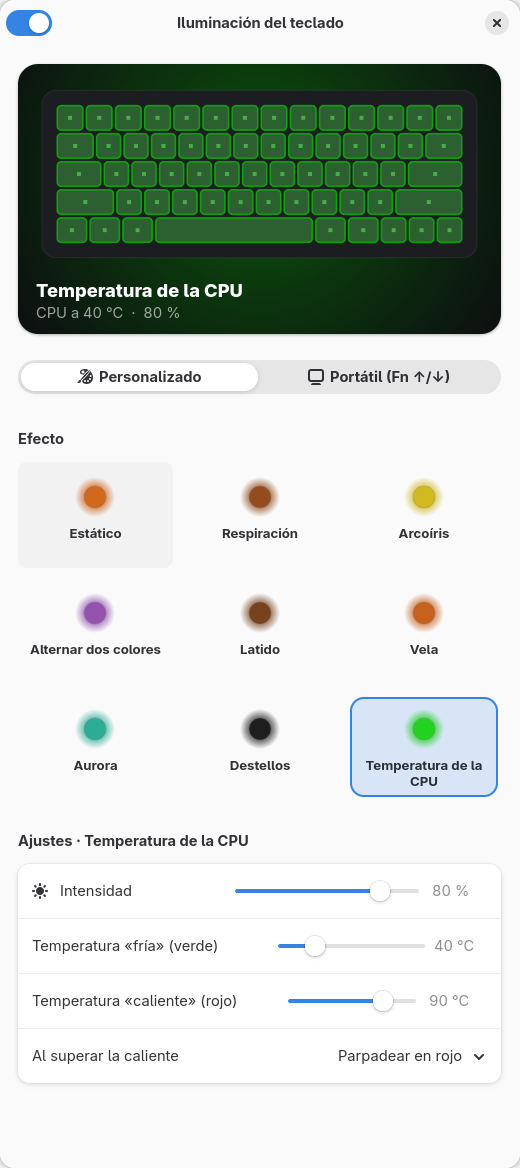
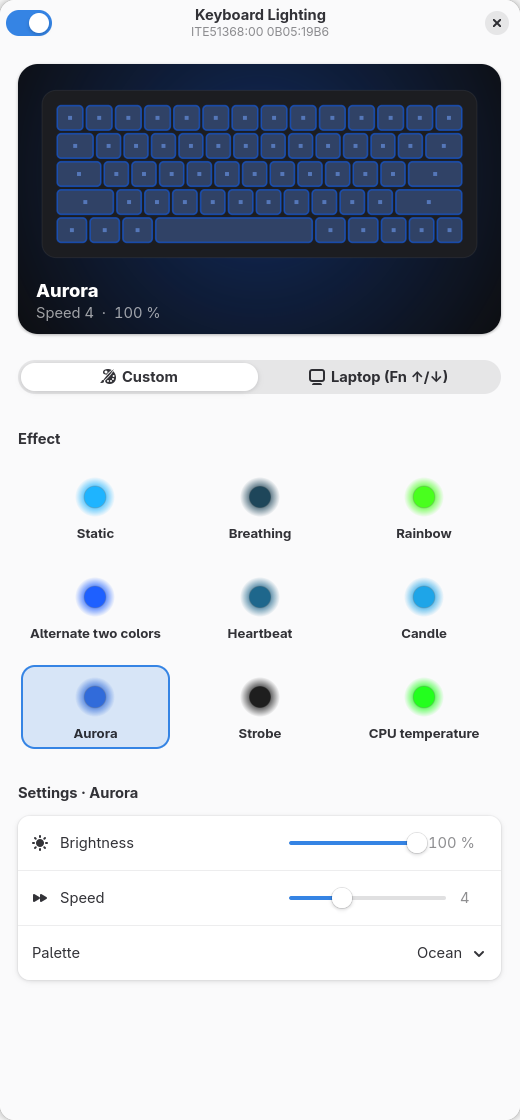
Rename the project to lamparray-light and update the docs
The tool is no longer ASUS-specific: describe LampArray support for any
vendor, how devices are detected, how to check compatibility, the
available languages and how to add a translation. Use an English
screenshot.

diff --git a/README.es.md b/README.es.md
@@ -1,30 +1,42 @@
-# asus-kbd-light
+# lamparray-light
 
 [English](README.md) · **Español**
 
-Control de la retroiluminación RGB del teclado para portátiles **ASUS** cuyo teclado
-interno es un dispositivo **I2C HID LampArray** (el estándar de *Iluminación dinámica*
-de Windows 11), que en Linux no gestionan ni `asusctl` ni OpenRGB.
+Control de la iluminación RGB de dispositivos **HID LampArray** en Linux: el estándar
+abierto detrás de la *Iluminación dinámica* de Windows 11, que usan teclados de
+portátiles y periféricos de muchos fabricantes. Habla directamente con el dispositivo,
+así que funciona donde `asusctl`, OpenRGB o las herramientas del fabricante no dan
+soporte al hardware.
 
-Probado en un **ASUS TUF Gaming A16 (FA608UM)** con Fedora 45 / GNOME.
+![Aplicación Iluminación del teclado](docs/screenshot.png)
 
-![Iluminación del teclado](docs/screenshot.png)
+## Dispositivos compatibles
 
-## ¿Me sirve?
+Cualquier dispositivo cuyo descriptor de informes HID exponga una colección LampArray,
+por I2C, USB o Bluetooth. Los números y tamaños de los informes se leen del descriptor,
+así que no hace falta configuración por modelo.
 
-Comprueba si tu portátil tiene este teclado:
+| Dispositivo | Estado |
+|---|---|
+| ASUS TUF Gaming A16 (FA608UM), teclado interno `ITE51368` `0B05:19B6` | ✅ probado |
+| Otros teclados / dispositivos LampArray | deberían funcionar, se agradecen informes |
+
+Comprueba si tu equipo tiene un dispositivo LampArray:
 
 ```sh
-grep -l "HID_ID=0018:00000B05:000019B6" /sys/class/hidraw/*/device/uevent
+for d in /sys/class/hidraw/*; do
+  od -An -v -tx1 "$d/device/report_descriptor" | tr -dc 0-9a-f |
+    grep -q -e 05590901a101 -e 0659000901a101 && grep HID_NAME "$d/device/uevent"
+done
 ```
 
-Si devuelve una ruta, sí. Otros modelos con teclado LampArray por I2C pueden funcionar
-cambiando `TARGET_ID` en `src/kbd_light.py` y la regla de `data/70-kbd-light.rules`.
+Tras instalar, `kbd-light info` lista los dispositivos detectados con sus números de
+informe y su número de LEDs.
 
 ## Funcionalidades
 
-- **Aplicación GTK4 / libadwaita** con vista previa en directo del teclado.
-- **Color e intensidad** con selector de color y colores rápidos.
+- **Aplicación GTK4 / libadwaita** con vista previa en directo de la iluminación.
+- **Color e intensidad**, con selector de color y colores rápidos.
 - **9 efectos**, cada uno con sus opciones:
 
   | Efecto | Opciones |
@@ -39,27 +51,32 @@ cambiando `TARGET_ID` en `src/kbd_light.py` y la regla de `data/70-kbd-light.rul
   | Destellos | duración, destellos por ráfaga |
   | Temperatura de la CPU | umbrales frío / caliente, alarma |
 
-- **Modo portátil**: devuelve el control al firmware (Fn + ↑/↓).
+- **Modo portátil**: devuelve el control al firmware (p. ej. Fn + ↑/↓).
+- **Varios dispositivos a la vez**: controla juntos todos los LampArray que encuentre.
 - **Servicio de usuario** que anima los efectos y restaura la configuración al iniciar
   sesión y al volver de suspensión.
 - **Línea de comandos** `kbd-light`.
+- **9 idiomas**: inglés, español, alemán, francés, portugués, italiano, ruso, japonés y
+  chino simplificado (sigue el idioma del sistema).
 
 ## Requisitos
 
 - Python 3, PyGObject con GTK 4 y libadwaita ≥ 1.7, pycairo
   (en Fedora con GNOME ya vienen instalados).
 - systemd (servicio de usuario) y udev.
+- `gettext` (`msgfmt`) para instalar las traducciones; sin él la interfaz sale en inglés.
 
 ## Instalación
 
 ```sh
-git clone https://github.com/<usuario>/asus-kbd-light.git
-cd asus-kbd-light
+git clone https://github.com/<usuario>/lamparray-light.git
+cd lamparray-light
 ./install.sh
 ```
 
 El script instala la app para tu usuario en `~/.local` y pide `sudo` solo para la regla
-udev que da acceso al teclado a la sesión activa (sin necesidad de root después).
+udev que da acceso a los dispositivos LampArray a la sesión activa (sin necesidad de
+root después).
 
 Para desinstalar: `./uninstall.sh` (añade `--purge` para borrar también la configuración).
 
@@ -67,11 +84,11 @@ Para desinstalar: `./uninstall.sh` (añade `--purge` para borrar también la con
 
 ```sh
 kbd-light                      # abre la aplicación
-kbd-light info                 # dispositivo y nº de LEDs
+kbd-light info                 # dispositivos detectados, informes y LEDs
 kbd-light color ff6600 80      # color fijo al 80 %
 kbd-light effect rainbow 7     # efecto y velocidad (1-10)
 kbd-light color2 00aaff        # segundo color (alternate)
-kbd-light auto                 # control del firmware (Fn + ↑/↓)
+kbd-light auto                 # control del firmware
 kbd-light off                  # apagar
 ```
 
@@ -82,29 +99,56 @@ La configuración se guarda en `~/.config/kbd-light/config.json`.
 
 ## Cómo funciona
 
-El teclado (`ITE51368`, `0B05:19B6`) se conecta por I2C y Linux lo enlaza a
-`hid-generic`; el driver `hid-asus` solo lo reconoce por USB. El control de la luz
-vía WMI (`asus::kbd_backlight`, que usa `asusctl`) acepta órdenes pero no tiene efecto.
+Un LampArray es una colección de aplicación en la página de uso HID *Lighting and
+Illumination* (`0x59`). `kbd-light` recorre `/sys/class/hidraw/*/device/report_descriptor`,
+analiza cada descriptor y se queda con los dispositivos que implementan los informes
+necesarios. Después envía *feature reports* por `/dev/hidrawN`:
 
-El dispositivo implementa la página HID *Lighting and Illumination* (`0x59`), es decir,
-un **LampArray**. `kbd-light` habla con él directamente por `/dev/hidrawN` con *feature
-reports*:
-
-| Report | Uso |
+| Informe (por uso) | Para qué sirve |
 |---|---|
-| `0x41` LampArrayAttributes | nº de LEDs, tamaño, intervalo mínimo |
-| `0x42` / `0x43` LampAttributes | posición y capacidades de cada LED |
-| `0x45` LampRangeUpdate | color RGBI para un rango de LEDs |
-| `0x46` LampArrayControl | modo autónomo (firmware) on/off |
+| LampArrayAttributes (`0x02`) | nº de LEDs, tamaño, intervalo mínimo de actualización |
+| LampAttributesRequest / Response (`0x20` / `0x22`) | posición y capacidades de cada LED |
+| LampRangeUpdate (`0x60`) | color RGBI para un rango de LEDs |
+| LampArrayControl (`0x70`) | modo autónomo (firmware) on/off |
 
-Este modelo expone **una sola zona** de luz, así que los efectos son de color global; el
-servicio los genera a ~30 fps (~2-3 % de CPU).
+Los números de informe cambian entre fabricantes (el teclado ASUS usa `0x41`–`0x46`), por
+eso se leen del descriptor.
+
+La regla udev da acceso con la etiqueta `uaccess` a los nodos hidraw cuyo descriptor
+contiene la colección LampArray, así que solo afecta a dispositivos de iluminación.
+
+El servicio de usuario genera los efectos a ~30 fps (o más despacio si el dispositivo lo
+pide) y pone todos los LEDs del mismo color; los efectos por LED aún no están
+implementados.
+
+### Por qué hace falta en portátiles ASUS
+
+En el modelo ASUS probado, el teclado va por I2C y Linux lo enlaza a `hid-generic` (el
+driver `hid-asus` solo lo reconoce por USB), y la interfaz WMI de retroiluminación
+(`asus::kbd_backlight`, la que usa `asusctl`) acepta órdenes sin ningún efecto.
+
+## Traducciones
+
+Las traducciones están en `po/`. Para añadir un idioma:
+
+```sh
+cd po
+msginit -l <idioma> -i kbd-light.pot -o <idioma>.po   # y traduce <idioma>.po
+echo <idioma> >> LINGUAS
+./update.sh                                             # comprueba todos los catálogos
+```
+
+Si cambias textos en `src/`, ejecuta `po/update.sh` para actualizar la plantilla y los
+catálogos. Las traducciones actuales están hechas con ayuda de IA: se agradecen
+correcciones de hablantes nativos.
 
 ## Estructura
 
 ```
 src/kbd_light.py        núcleo: protocolo LampArray, efectos, CLI y servicio
 src/kbd_light_gui.py    interfaz GTK4 / libadwaita
+src/i18n.py             configuración de gettext
+po/                     plantilla y catálogos de traducción
 data/                   regla udev, servicio systemd de usuario y lanzador .desktop
 install.sh              instalación para el usuario actual
 uninstall.sh            desinstalación

diff --git a/README.md b/README.md
@@ -1,31 +1,40 @@
-# asus-kbd-light
+# lamparray-light
 
 **English** · [Español](README.es.md)
 
-RGB keyboard backlight control for **ASUS** laptops whose internal keyboard is an
-**I2C HID LampArray** device (the Windows 11 *Dynamic Lighting* standard), which on
-Linux is handled by neither `asusctl` nor OpenRGB.
+RGB lighting control for **HID LampArray** devices on Linux: the open standard behind
+Windows 11 *Dynamic Lighting*, used by laptop keyboards and peripherals from many
+vendors. It talks to the device directly, so it works where `asusctl`, OpenRGB or vendor
+tools don't support the hardware.
 
-Tested on an **ASUS TUF Gaming A16 (FA608UM)** running Fedora 45 / GNOME.
+![Keyboard Lighting app](docs/screenshot.png)
 
-![Keyboard lighting app](docs/screenshot.png)
+## Supported devices
 
-> The user interface is currently in Spanish.
+Any device whose HID report descriptor exposes a LampArray collection, over I2C, USB or
+Bluetooth. Report IDs and sizes are read from the descriptor, so no per-model
+configuration is needed.
 
-## Does it work on my laptop?
+| Device | Status |
+|---|---|
+| ASUS TUF Gaming A16 (FA608UM), internal keyboard `ITE51368` `0B05:19B6` | ✅ tested |
+| Other LampArray keyboards / devices | should work, reports welcome |
 
-Check whether your laptop has this keyboard:
+Check whether your machine has a LampArray device:
 
 ```sh
-grep -l "HID_ID=0018:00000B05:000019B6" /sys/class/hidraw/*/device/uevent
+for d in /sys/class/hidraw/*; do
+  od -An -v -tx1 "$d/device/report_descriptor" | tr -dc 0-9a-f |
+    grep -q -e 05590901a101 -e 0659000901a101 && grep HID_NAME "$d/device/uevent"
+done
 ```
 
-If it prints a path, yes. Other models with an I2C LampArray keyboard may work by
-changing `TARGET_ID` in `src/kbd_light.py` and the rule in `data/70-kbd-light.rules`.
+After installing, `kbd-light info` lists the detected devices with their report IDs and
+lamp count.
 
 ## Features
 
-- **GTK4 / libadwaita app** with a live preview of the keyboard.
+- **GTK4 / libadwaita app** with a live preview of the lighting.
 - **Color and brightness**, with a color picker and quick presets.
 - **9 effects**, each with its own options:
 
@@ -41,27 +50,31 @@ changing `TARGET_ID` in `src/kbd_light.py` and the rule in `data/70-kbd-light.ru
   | Strobe | flash duration, flashes per burst |
   | CPU temperature | cold / hot thresholds, alarm |
 
-- **Laptop mode**: hands control back to the firmware (Fn + ↑/↓).
+- **Laptop mode**: hands control back to the firmware (e.g. Fn + ↑/↓).
+- **Several devices at once**: every LampArray found is driven together.
 - **User service** that animates the effects and restores your settings on login
   and after resuming from suspend.
 - **Command line** tool `kbd-light`.
+- **9 languages**: English, Spanish, German, French, Portuguese, Italian, Russian,
+  Japanese and Simplified Chinese (follows the system language).
 
 ## Requirements
 
 - Python 3, PyGObject with GTK 4 and libadwaita ≥ 1.7, pycairo
   (preinstalled on Fedora with GNOME).
 - systemd (user service) and udev.
+- `gettext` (`msgfmt`) to install the translations; without it the UI is in English.
 
 ## Installation
 
 ```sh
-git clone https://github.com/<user>/asus-kbd-light.git
-cd asus-kbd-light
+git clone https://github.com/<user>/lamparray-light.git
+cd lamparray-light
 ./install.sh
 ```
 
 The script installs the app for your user under `~/.local` and only asks for `sudo` to
-install a udev rule that gives the active session access to the keyboard (no root
+install a udev rule that gives the active session access to LampArray devices (no root
 needed afterwards).
 
 To uninstall: `./uninstall.sh` (add `--purge` to also remove your settings).
@@ -70,11 +83,11 @@ To uninstall: `./uninstall.sh` (add `--purge` to also remove your settings).
 
 ```sh
 kbd-light                      # open the app
-kbd-light info                 # device and number of LEDs
+kbd-light info                 # detected devices, report IDs and lamps
 kbd-light color ff6600 80      # static color at 80 %
 kbd-light effect rainbow 7     # effect and speed (1-10)
 kbd-light color2 00aaff        # second color (alternate)
-kbd-light auto                 # firmware control (Fn + ↑/↓)
+kbd-light auto                 # firmware control
 kbd-light off                  # turn off
 ```
 
@@ -85,29 +98,55 @@ Settings are stored in `~/.config/kbd-light/config.json`.
 
 ## How it works
 
-The keyboard (`ITE51368`, `0B05:19B6`) is connected over I2C and Linux binds it to
-`hid-generic`; the `hid-asus` driver only recognizes it over USB. The WMI backlight
-interface (`asus::kbd_backlight`, used by `asusctl`) accepts commands but has no effect.
+A LampArray is an application collection on the HID *Lighting and Illumination* usage
+page (`0x59`). `kbd-light` scans `/sys/class/hidraw/*/device/report_descriptor`, parses
+each descriptor and keeps the devices that implement the required reports. It then
+sends feature reports through `/dev/hidrawN`:
 
-The device implements the HID *Lighting and Illumination* usage page (`0x59`), i.e. a
-**LampArray**. `kbd-light` talks to it directly through `/dev/hidrawN` using feature
-reports:
-
-| Report | Purpose |
+| Report (by usage) | Purpose |
 |---|---|
-| `0x41` LampArrayAttributes | LED count, size, minimum update interval |
-| `0x42` / `0x43` LampAttributes | position and capabilities of each LED |
-| `0x45` LampRangeUpdate | RGBI color for a range of LEDs |
-| `0x46` LampArrayControl | autonomous (firmware) mode on/off |
+| LampArrayAttributes (`0x02`) | lamp count, size, minimum update interval |
+| LampAttributesRequest / Response (`0x20` / `0x22`) | position and capabilities of each lamp |
+| LampRangeUpdate (`0x60`) | RGBI color for a range of lamps |
+| LampArrayControl (`0x70`) | autonomous (firmware) mode on/off |
 
-This model exposes a **single lighting zone**, so effects change the color of the whole
-keyboard; the service renders them at ~30 fps (~2-3 % CPU).
+Report IDs differ between vendors (the ASUS keyboard uses `0x41`–`0x46`), which is why
+they are taken from the descriptor.
+
+The udev rule grants access with the `uaccess` tag to hidraw nodes whose descriptor
+contains the LampArray collection, so it only covers lighting devices.
+
+Effects are rendered by the user service at ~30 fps (or slower if the device asks for
+it) and set every lamp to the same color; per-lamp effects are not implemented yet.
+
+### Why a separate tool on ASUS laptops
+
+On the tested ASUS model the keyboard is connected over I2C and bound to `hid-generic`
+(the `hid-asus` driver only matches it over USB), and the WMI backlight interface
+(`asus::kbd_backlight`, used by `asusctl`) accepts commands without any effect.
+
+## Translations
+
+Translations live in `po/`. To add a language:
+
+```sh
+cd po
+msginit -l <lang> -i kbd-light.pot -o <lang>.po   # then translate <lang>.po
+echo <lang> >> LINGUAS
+./update.sh                                         # checks every catalog
+```
+
+After changing strings in `src/`, run `po/update.sh` to refresh the template and the
+catalogs. The current translations are AI-assisted: corrections from native speakers
+are very welcome.
 
 ## Project layout
 
 ```
 src/kbd_light.py        core: LampArray protocol, effects, CLI and service
 src/kbd_light_gui.py    GTK4 / libadwaita user interface
+src/i18n.py             gettext setup
+po/                     translation template and catalogs
 data/                   udev rule, systemd user service and .desktop launcher
 install.sh              per-user installation
 uninstall.sh            uninstallation
